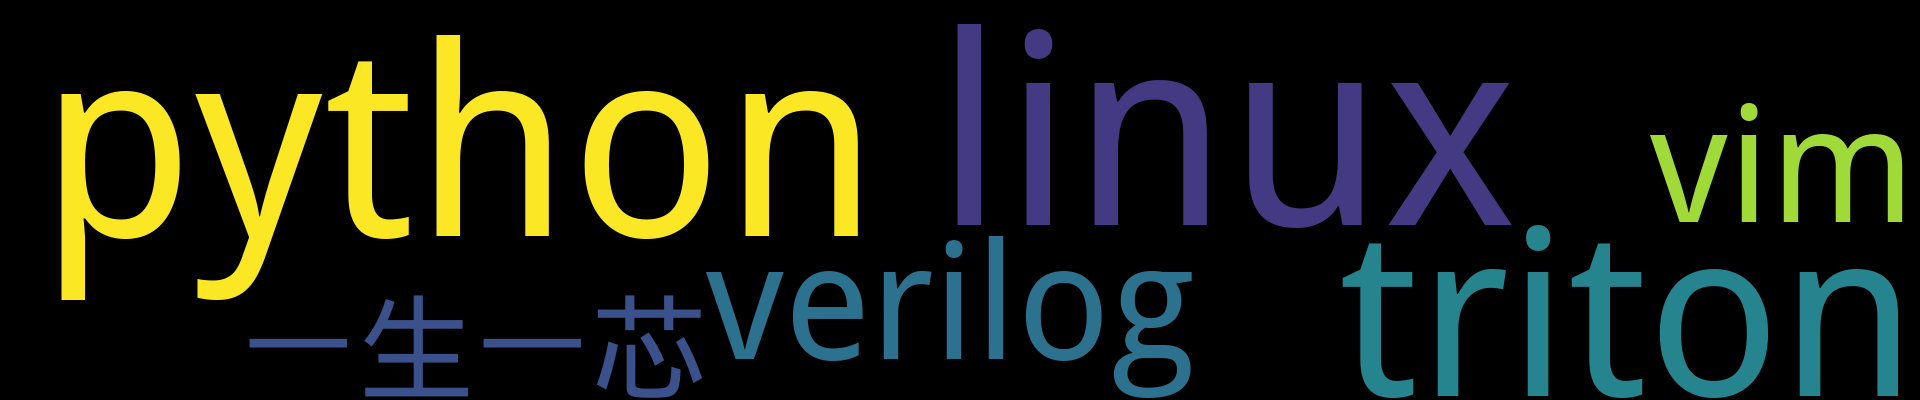
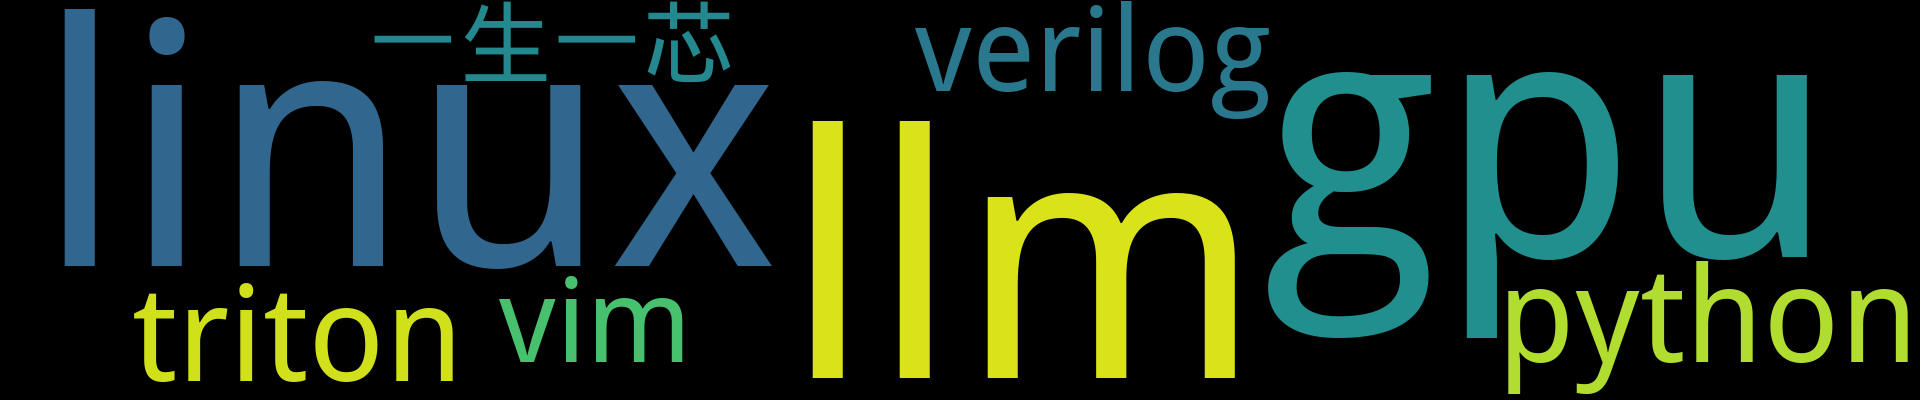
Update from Github Action

diff --git a/README.md b/README.md
@@ -1,7 +1,7 @@
 
 <p align='center'>
     <img src="https://badgen.net/github/issues/Zaire404//docs"/>
-    <img src="https://badgen.net/badge/last-commit/2026-02-23 10:14:18"/>
+    <img src="https://badgen.net/badge/last-commit/2026-02-26 06:10:33"/>
     <img src="https://badgen.net/github/forks/Zaire404//docs"/>
     <img src="https://badgen.net/github/stars/Zaire404//docs"/>
     <img src="https://badgen.net/github/watchers/Zaire404//docs"/>
@@ -49,9 +49,25 @@
 </details>
             
 <details open>
+<summary>gpu	[1篇]</summary>
+
+- 2026-02-19 [NVIDIA GPU 架构演进](https://github.com/Zaire404/docs/issues/29) 
+
+
+</details>
+            
+<details open>
 <summary>linux	[1篇]</summary>
 
 - 2025-02-14 [Vim 常用操作](https://github.com/Zaire404/docs/issues/3) 
+
+
+</details>
+            
+<details open>
+<summary>llm	[1篇]</summary>
+
+- 2026-02-15 [LLM模型目录里都有啥](https://github.com/Zaire404/docs/issues/28) 
 
 
 </details>
